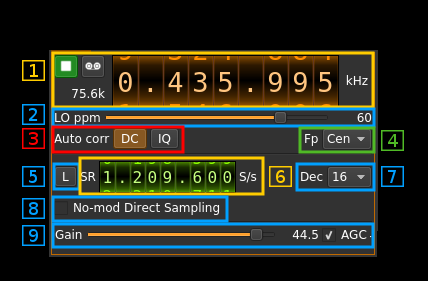
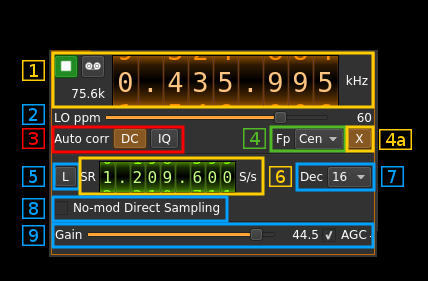
RTLSDR transverter mode options documentation

Changed region(s): [[0.1215, 0.3701, 0.972, 0.5694]]

diff --git a/plugins/samplesource/rtlsdr/readme.md b/plugins/samplesource/rtlsdr/readme.md
@@ -57,6 +57,34 @@ Possible values are:
   - **Inf**: the decimation operation takes place around the center of the lower half of the BladeRF Rx passband. 
   - **Sup**: the decimation operation takes place around the center of the upper half of the BladeRF Rx passband. 
 
+<h3>4a: Transverter mode open dialog</h3>
+
+This button opens a dialog to set the transverter mode frequency translation options:
+
+![SDR Daemon source input stream trasverter dialog](../../../doc/img/RTLSDR_plugin_xvrt.png)
+
+Note that if you mouse over the button a tooltip appears that displays the translating frequency and if translation is enabled or disabled. When the frequency translation is enabled the button is lit.
+
+<h4>4a.1: Translating frequency</h4>
+
+You can set the translating frequency in Hz with this dial. Use the wheels to adjust the sample rate. Left click on a digit sets the cursor position at this digit. Right click on a digit sets all digits on the right to zero. This effectively floors value at the digit position. Wheels are moved with the mousewheel while pointing at the wheel or by selecting the wheel with the left mouse click and using the keyboard arroews. Pressing shift simultanoeusly moves digit by 5 and pressing control moves it by 2.
+
+The frequency set in the device is the frequency on the main dial (1) minus this frequency. Thus it is positive for down converters and negative for up converters. 
+
+For example with the DX Patrol that has a mixer at 120 MHz for HF operation you would set the value to -120,000,000 Hz so that if the main dial frequency is set at 7,130 kHz the RTLSDR of the DX Patrol will be set to 127.130 MHz.
+
+If you use a down converter to receive the 6 cm band narrowband center frequency of 5670 MHz at 432 MHz you would set the translating frequency to 5760 - 432 = 5328 MHz thus dial +5,328,000,000 Hz.
+
+For bands even higher in the frequency spectrum the GHz digits are not really significant so you can have them set at 1 GHz. Thus to receive the 10368 MHz frequency at 432 MHz you would set the translating frequency to 1368 - 432 = 936 MHz. Note that in this case the frequency of the LO used in the mixer of the transverter is set at 9936 MHz.
+
+<h4>4a.2: Translating frequency enable/disable</h4>
+
+Use this toggle button to activate or deactivate the frequency translation
+
+<h4>4a.3: Confirmation buttons</h4>
+
+Use these buttons to confirm ("OK") or dismiss ("Cancel") your changes. 
+
 <h3>5: Toggle low/high sample rate range</h3>
 
 When button is on the sample rate can vary from 230 kS/s to 300 kS/s
